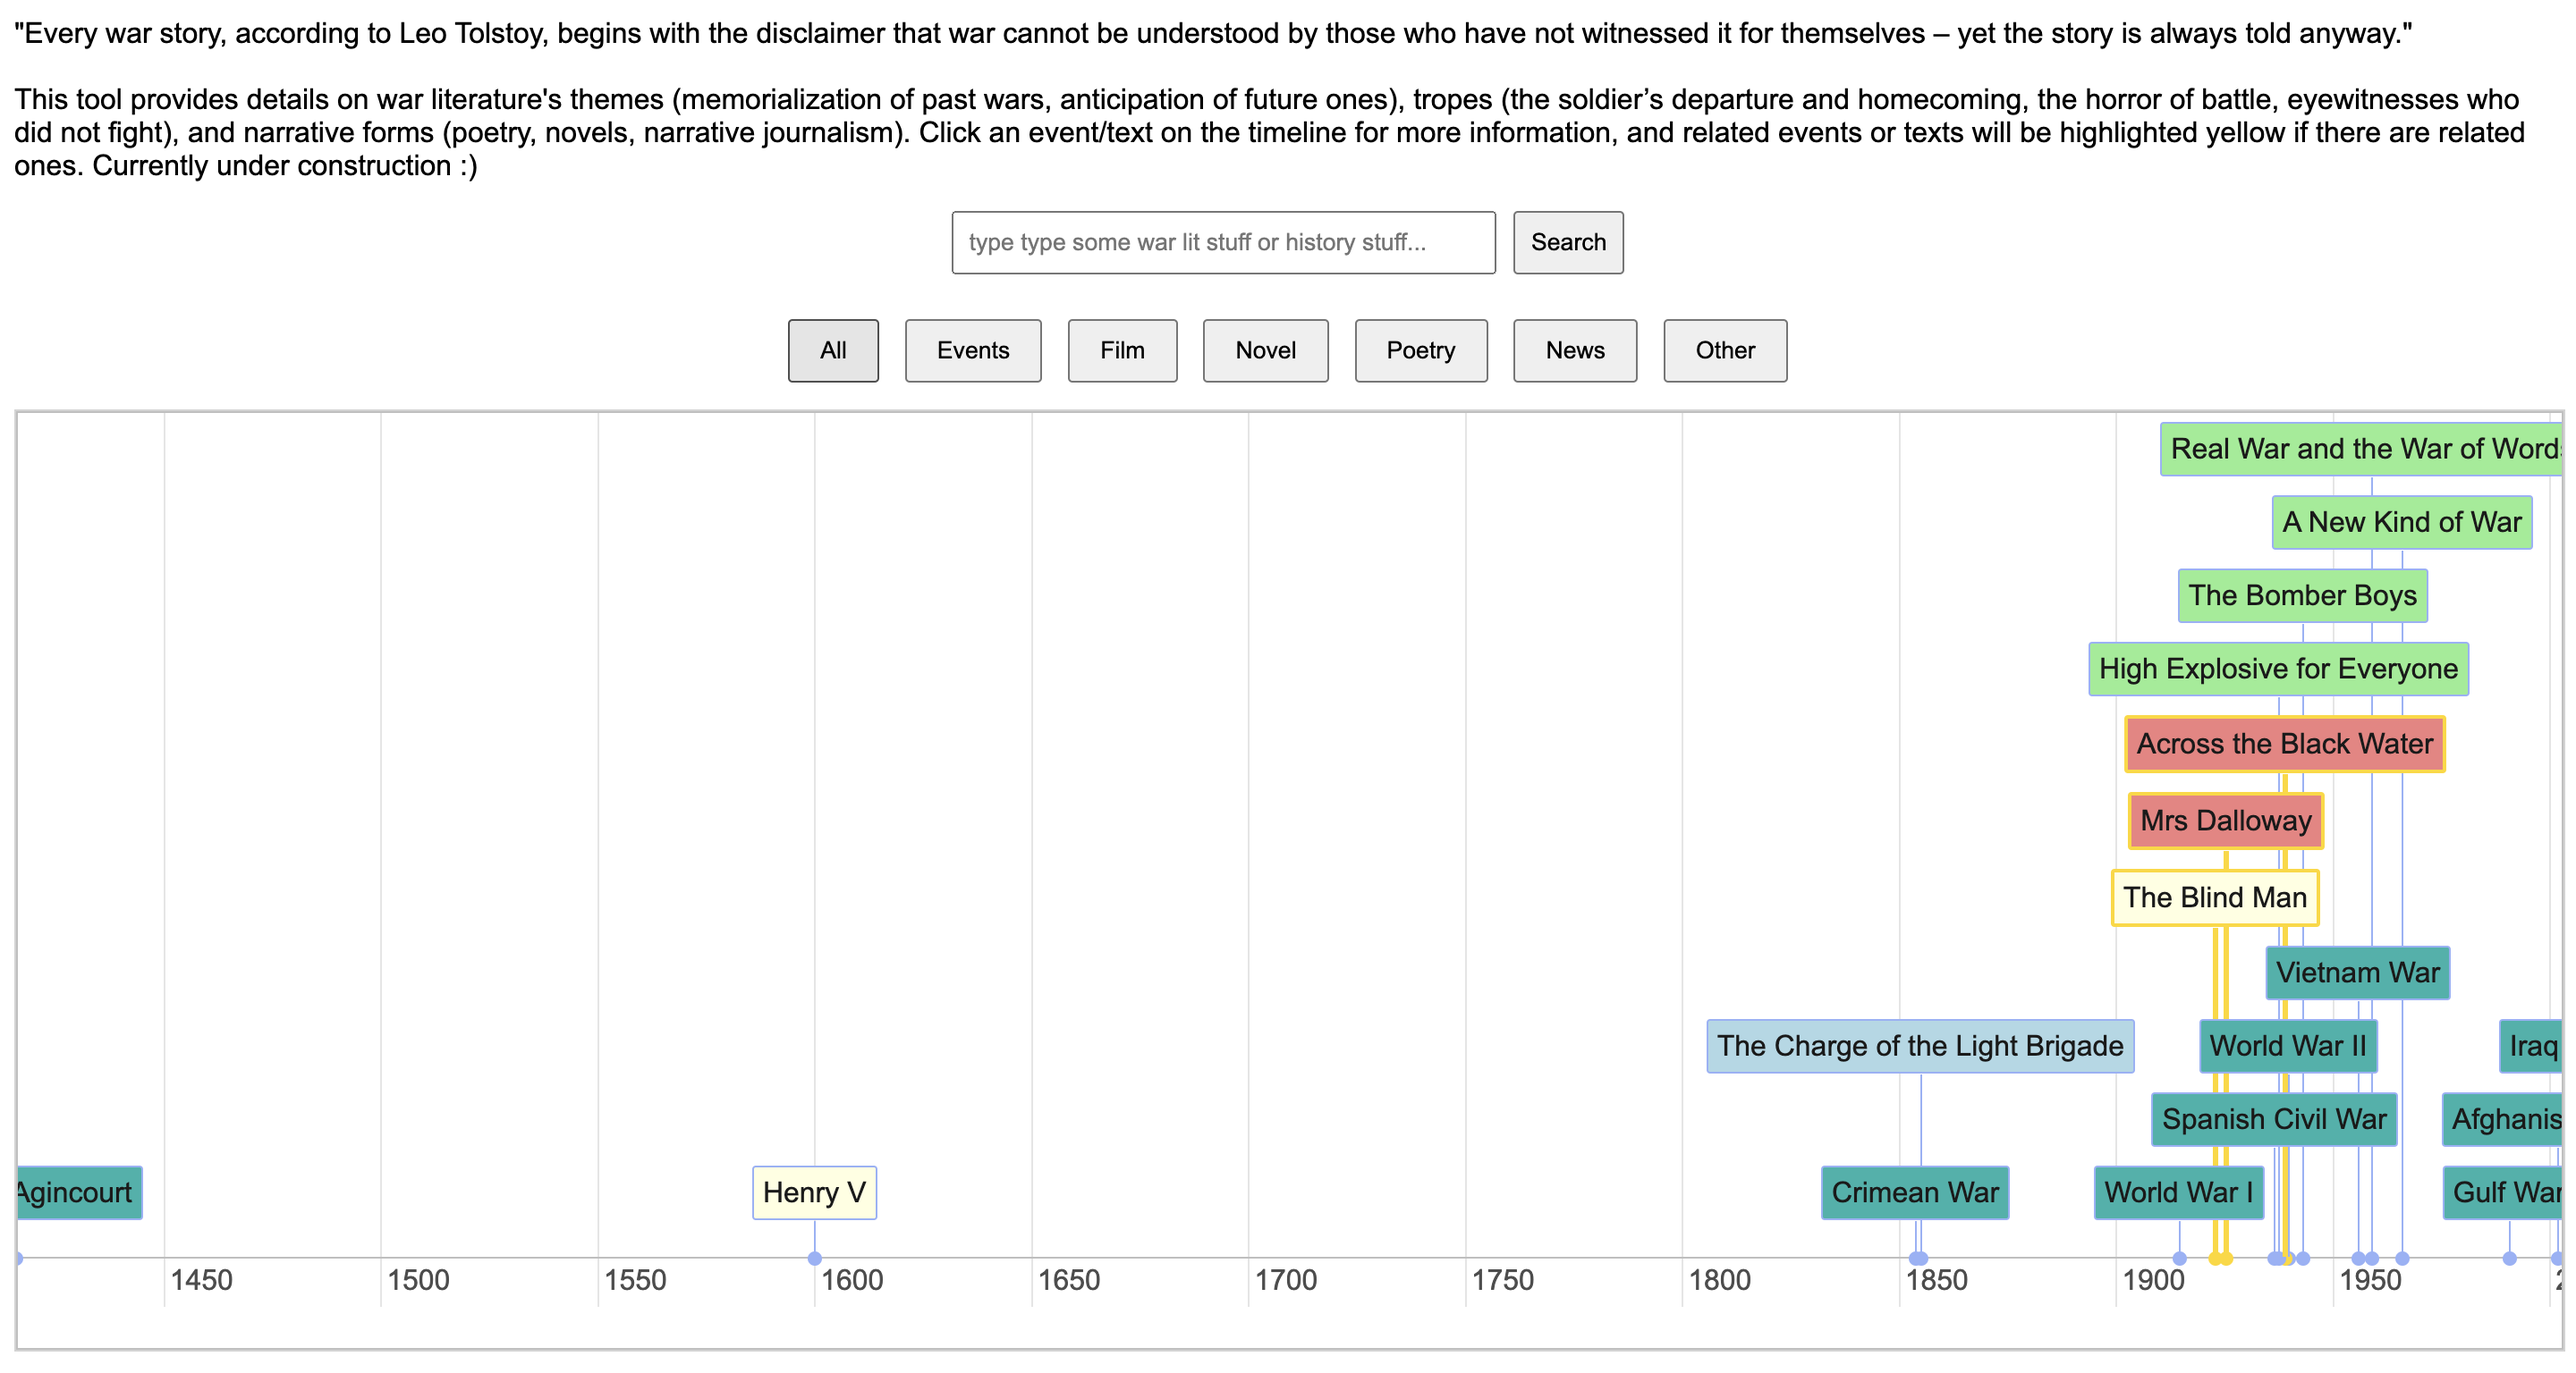
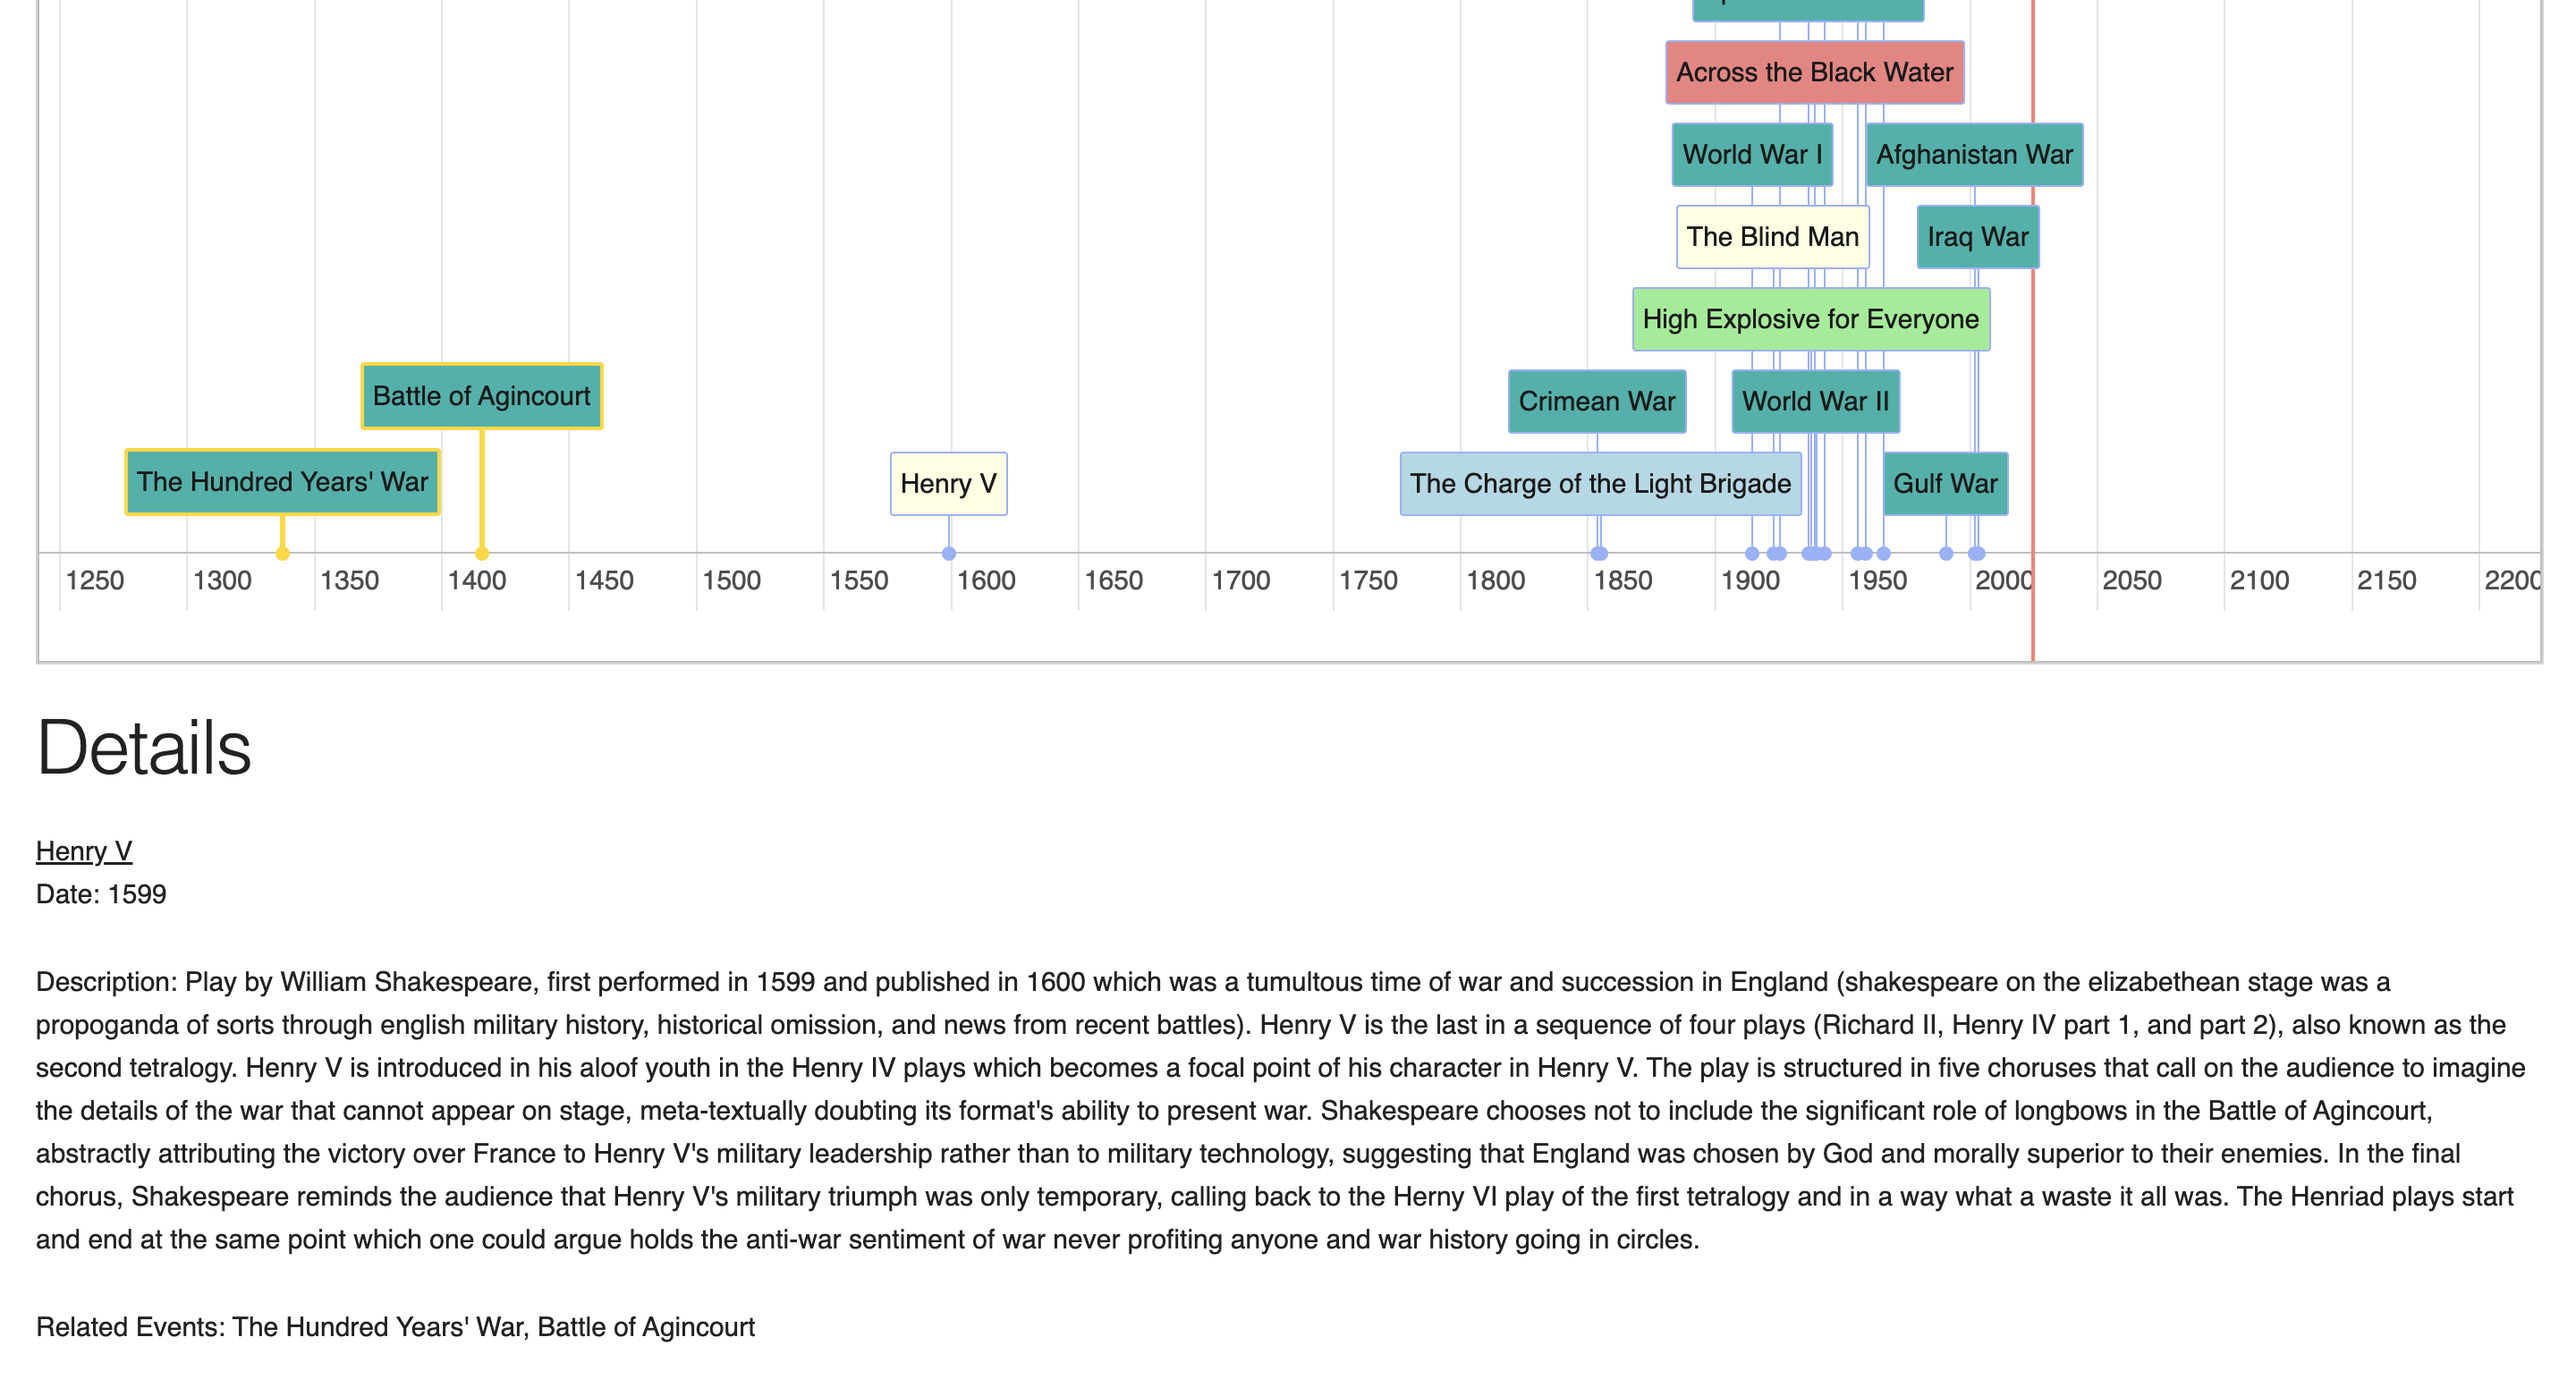
new screens

diff --git a/README.md b/README.md
@@ -3,7 +3,8 @@ Plots war literature and war events on a timeline. Highlights relationships betw
 
 Try it out [here!](https://cj-hines.github.io/warlit)
 
-<img width="1440" alt="warlit screen" src="warlit2.png">
+<img width="1440" alt="warlit screenshot #1" src="warlit1.png">
+<img width="1440" alt="warlit screenshot #2" src="warlit2.png">
 
 ## Notes
 A tool developed by CJ Hines for the course *Imagining War: The Art and Literature of Conflict* at the Pembroke Cambridge Summer Programme.
